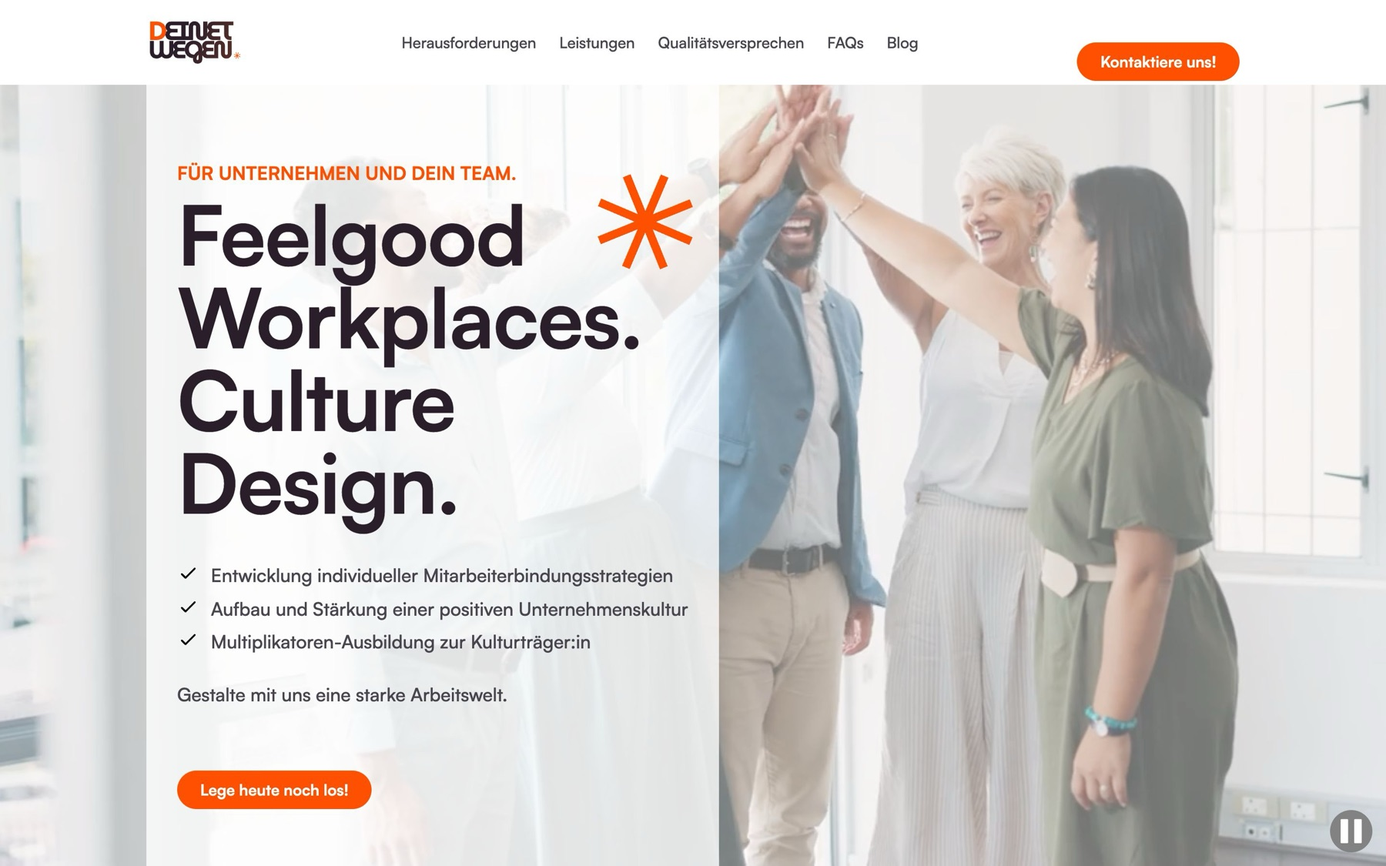
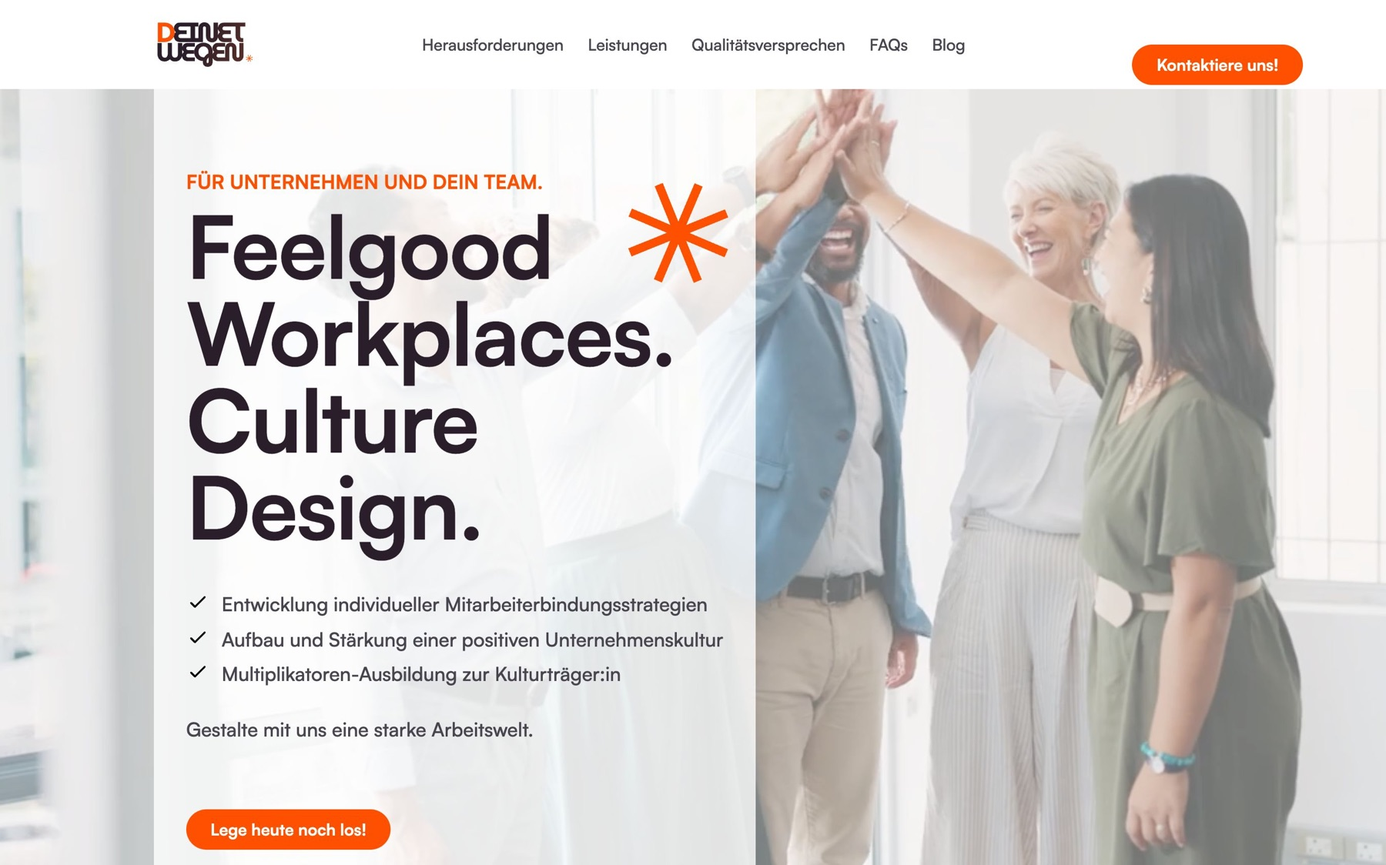
Deinetwegen: Einleitung unter der H1 raus, Steckbrief in der Schreibweise wie Bauer (2025 · 2 Monate), Kundenstimme neben den Ergebnissen statt allein am Ende, am Handy nur die Handy-Fassung der ganzen Seite, Pause-Taste der Kundenseite aus den Aufnahmen entfernt, gezeichneter Laptop raus (Bühne fla

diff --git a/website/referenzen/deinetwegen/index.html b/website/referenzen/deinetwegen/index.html
@@ -15,7 +15,7 @@
   <meta property="og:description" content="Branding, Onepager und Blog für eine frisch gegründete HR-Beratung.">
   <meta property="og:url" content="https://studio-aah.de/referenzen/deinetwegen/">
   <meta property="og:image" content="https://studio-aah.de/bilder/vorschaubild.jpg">
-  <link rel="stylesheet" href="../../css/stil.css?v=20261019u">
+  <link rel="stylesheet" href="../../css/stil.css?v=20261019x">
   <script type="application/ld+json">
 {
   "@context": "https://schema.org",
@@ -106,7 +106,7 @@
   </details>
 </header>
 <div class="mm-schleier" hidden></div>
-<script src="../../js/menue.js?v=20261019u" defer></script>
+<script src="../../js/menue.js?v=20261019x" defer></script>
 <!-- /KOPF -->
 
 <main id="inhalt" class="cs cs-nahtlos cs-deinetwegen" style="--pc-farbe: #1f100c;--pc-dunkel:#2A1E2B;--pc-akzent:#FF5000;--pc-zweit:#BEC9C6;--pc-hell:#EBEBF0;--pc-meta-dunkel:#BEC9C6;--pc-marke:#2A1E2B">
@@ -114,11 +114,11 @@
   <section class="seitenkopf cs-kopf">
     <p class="meta brotkrumen"><a href="../">Projekte</a> / <span aria-current="page">Deinetwegen HR</span></p>
     <h1 class="cs-titel">Deinetwegen HR</h1>
-    <p class="cs-einleitung">Ein erster Startpunkt für eine frisch gegründete HR-Beratung: ein Onepager mit Blog, der zeigt, wofür Deinetwegen HR steht und wen sie anspricht.</p>
-    <dl class="cs-fakten"><div><dt>Branche</dt><dd>HR-Beratung, gegründet 2024</dd></div><div><dt>Leistungen</dt><dd>Branding, Onepager mit Blog und Artikelseite, Webdesign und Entwicklung in Webflow</dd></div><div><dt>Zeitraum</dt><dd>2025 · Umsetzung in zwei Monaten</dd></div><div><dt>Website</dt><dd><a class="textlink" href="https://www.deinetwegen-hr.de" target="_blank" rel="noopener">deinetwegen-hr.de · Stand 10/2026 <span aria-hidden="true">↗</span></a></dd></div></dl>
+    
+    <dl class="cs-fakten"><div><dt>Branche</dt><dd>HR-Beratung – Mitarbeiterbindung &amp; Unternehmenskultur</dd></div><div><dt>Leistungen</dt><dd>Branding, Onepager mit Blog und Artikelseite, Web&shy;entwicklung in Webflow</dd></div><div><dt>Zeitraum</dt><dd>2025 · 2 Monate</dd></div><div><dt>Website</dt><dd><a class="textlink" href="https://www.deinetwegen-hr.de" target="_blank" rel="noopener">deinetwegen-hr.de · Stand 10/2026 <span aria-hidden="true">↗</span></a></dd></div></dl>
   </section>
 
-  <div class="nl-band nl-dunkel cs-hero bl-hero" style="--von:#2A1E2B;--bis:#5A2F28"><div class="bl-kopf"><img class="bl-logo" src="../../bilder/referenzen/deinetwegen/logo-dunkel.svg" alt="" width="160" height="79"><p class="meta">Branding · Onepager</p></div><div class="bl-laptop"><div class="bl-schirm"><img src="../../bilder/referenzen/deinetwegen/start.jpg?v=96133" alt="Startseite von Deinetwegen HR am Laptop: „Feelgood Workplaces. Culture Design.“" width="1800" height="1125" fetchpriority="high" decoding="async"></div><span class="bl-fuss" aria-hidden="true"></span></div></div>
+  <div class="nl-band nl-dunkel cs-hero bl-hero" style="--von:#2A1E2B;--bis:#5A2F28"><div class="bl-kopf"><img class="bl-logo" src="../../bilder/referenzen/deinetwegen/logo-dunkel.svg" alt="" width="160" height="79"><p class="meta">Branding · Onepager</p></div><div class="bl-flach"><img src="../../bilder/referenzen/deinetwegen/start.jpg?v=97621" alt="Startseite von Deinetwegen HR am Laptop: „Feelgood Workplaces. Culture Design.“" width="1800" height="1124" fetchpriority="high" decoding="async"></div></div>
 
 
   <section class="cs-bilder" aria-label="Projekt im Detail">
@@ -144,10 +144,10 @@
   <div id="d-gestaltung" class="cs-block cs-kapitel"><p class="meta">Brand Manual 2025</p><h2 class="gr-xxl lang-wort kp-titel">Gestaltung</h2></div>
 </div>
 <div class="nl-band" style="--von:#EBEBF0;--bis:#EBEBF0">
-  <section class="cs-block cs-cd" aria-labelledby="mk-titel"><div class="mk-kopf"><p class="meta">Corporate Design</p><h2 class="gr-h3" id="mk-titel">Logo, Farben, Schrift</h2><p class="weg-einleitung">Das Corporate Design habe ich optimiert und im Brand Manual festgehalten: die Wortmarke mit orangem D und Stern, das D als Bildmarke, Farben und Schrift.</p></div><div class="mk-logos"><figure class="mk-logo" style="--grund:#ffffff"><img src="../../bilder/referenzen/deinetwegen/logo-hell.svg" alt="Logo Deinetwegen auf hellem Grund" width="331" height="169" loading="lazy"></figure><figure class="mk-logo" style="--grund:#2A1E2B"><img src="../../bilder/referenzen/deinetwegen/logo-dunkel.svg" alt="Logo Deinetwegen auf dunklem Grund" width="324" height="160" loading="lazy"></figure><figure class="mk-logo" style="--grund:#ffffff"><img src="../../bilder/referenzen/deinetwegen/marke-orange.svg" alt="Bildmarke D mit Stern in Orange" width="361" height="361" loading="lazy"></figure><figure class="mk-logo" style="--grund:#2A1E2B"><img src="../../bilder/referenzen/deinetwegen/marke-tuerkis.svg" alt="Bildmarke D mit Stern in Türkis" width="361" height="361" loading="lazy"></figure></div><ul class="mk-farben"><li class="mk-farbe mk-hell" style="--f:#FF5000"><b>Signalfarbe</b><span>#FF5000</span><small>Knöpfe, Akzente</small></li><li class="mk-farbe" style="--f:#2A1E2B"><b>Schwarz</b><span>#2A1E2B</span><small>Logo, Überschriften</small></li><li class="mk-farbe mk-hell" style="--f:#BEC9C6"><b>Türkis</b><span>#BEC9C6</span><small>Logo, Flächen</small></li><li class="mk-farbe" style="--f:#5A2F28"><b>Verlauf</b><span>#5A2F28</span><small>Flächen, aus Schwarz</small></li><li class="mk-farbe mk-hell" style="--f:#EBEBF0"><b>Hellgrau</b><span>#EBEBF0</span><small>Flächen</small></li></ul><figure class="mk-schrift"><img src="../../bilder/referenzen/deinetwegen/schrift-satoshi.png?v=96187" alt="Schriftmuster Satoshi: Aa groß, Alphabet in Regular und Bold" width="1600" height="900" loading="lazy"><figcaption class="meta">Schrift: Satoshi · Indian Type Foundry</figcaption></figure></section>
+  <section class="cs-block cs-cd" aria-labelledby="mk-titel"><div class="mk-kopf"><p class="meta">Corporate Design</p><h2 class="gr-h3" id="mk-titel">Logo, Farben, Schrift</h2><p class="weg-einleitung">Die Wortmarke hat Franziska als Grundlage mitgebracht. Ich habe Ausrichtung und Farben angepasst und das Corporate Design im Brand Manual festgehalten: Wortmarke mit orangem D und Stern, das D als Bildmarke, Farben und Schrift.</p></div><div class="mk-logos"><figure class="mk-logo" style="--grund:#ffffff"><img src="../../bilder/referenzen/deinetwegen/logo-hell.svg" alt="Logo Deinetwegen auf hellem Grund" width="331" height="169" loading="lazy"></figure><figure class="mk-logo" style="--grund:#2A1E2B"><img src="../../bilder/referenzen/deinetwegen/logo-dunkel.svg" alt="Logo Deinetwegen auf dunklem Grund" width="324" height="160" loading="lazy"></figure><figure class="mk-logo" style="--grund:#ffffff"><img src="../../bilder/referenzen/deinetwegen/marke-orange.svg" alt="Bildmarke D mit Stern in Orange" width="361" height="361" loading="lazy"></figure><figure class="mk-logo" style="--grund:#2A1E2B"><img src="../../bilder/referenzen/deinetwegen/marke-tuerkis.svg" alt="Bildmarke D mit Stern in Türkis" width="361" height="361" loading="lazy"></figure></div><ul class="mk-farben"><li class="mk-farbe mk-hell" style="--f:#FF5000"><b>Signalfarbe</b><span>#FF5000</span><small>Knöpfe, Akzente</small></li><li class="mk-farbe" style="--f:#2A1E2B"><b>Schwarz</b><span>#2A1E2B</span><small>Logo, Überschriften</small></li><li class="mk-farbe mk-hell" style="--f:#BEC9C6"><b>Türkis</b><span>#BEC9C6</span><small>Logo, Flächen</small></li><li class="mk-farbe" style="--f:#5A2F28"><b>Verlauf</b><span>#5A2F28</span><small>Flächen, aus Schwarz</small></li><li class="mk-farbe mk-hell" style="--f:#EBEBF0"><b>Hellgrau</b><span>#EBEBF0</span><small>Flächen</small></li></ul><figure class="mk-schrift"><img src="../../bilder/referenzen/deinetwegen/schrift-satoshi.png?v=96187" alt="Schriftmuster Satoshi: Aa groß, Alphabet in Regular und Bold" width="1600" height="900" loading="lazy"><figcaption class="meta">Schrift: Satoshi · Indian Type Foundry</figcaption></figure></section>
 </div>
 <div class="nl-band" style="--von:#EBEBF0;--bis:#EBEBF0">
-  <section id="d-onepager" class="cs-block cs-lang" aria-labelledby="la-titel"><div class="la-kopf"><p class="meta">Website · Webflow</p><h2 class="la-titel" id="la-titel">Der Onepager</h2><p>Eine Seite, ein Weg: Herausforderungen, Motivation, Leistungen, Zitat der Gründerin, Fragen und Antworten, Blog – am Rechner und am Handy.</p></div><div class="la-paar" style="--rd:0.16763;--rh:0.03387"><figure class="la-karte la-desktop"><img src="../../bilder/referenzen/deinetwegen/lang-desktop.jpg?v=96934" alt="Ganze Startseite von Deinetwegen HR am Rechner, von oben bis unten" width="1920" height="11454" loading="lazy"><figcaption class="meta">Rechner</figcaption></figure><figure class="la-karte la-handy"><img src="../../bilder/referenzen/deinetwegen/lang-handy.jpg?v=97139" alt="Ganze Startseite von Deinetwegen HR am Handy, von oben bis unten" width="600" height="17713" loading="lazy"><figcaption class="meta">Handy</figcaption></figure></div></section>
+  <section id="d-onepager" class="cs-block cs-lang" aria-labelledby="la-titel"><div class="la-kopf"><p class="meta">Website · Webflow</p><h2 class="la-titel" id="la-titel">Der Onepager</h2><p>Eine Seite, ein Weg: Herausforderungen, Motivation, Leistungen, Zitat der Gründerin, Fragen und Antworten, Blog – am Rechner und am Handy.</p></div><div class="la-paar" style="--rd:0.16763;--rh:0.03387"><figure class="la-karte la-desktop"><img src="../../bilder/referenzen/deinetwegen/lang-desktop.jpg?v=97691" alt="Ganze Startseite von Deinetwegen HR am Rechner, von oben bis unten" width="1920" height="11454" loading="lazy"><figcaption class="meta">Rechner</figcaption></figure><figure class="la-karte la-handy"><img src="../../bilder/referenzen/deinetwegen/lang-handy.jpg?v=97691" alt="Ganze Startseite von Deinetwegen HR am Handy, von oben bis unten" width="600" height="17713" loading="lazy"><figcaption class="meta">Handy</figcaption></figure></div></section>
 </div>
 <div class="nl-band nl-dunkel" style="--von:#2A1E2B;--bis:#5A2F28">
   <section class="cs-block cs-seiten-pillen" aria-labelledby="sp-titel"><div class="sp-kopf"><p class="meta">Inhalte</p><h2 class="la-titel" id="sp-titel">Blog und Beiträge</h2><p>Zum Onepager gehören ein Blog und eine Artikelseite für Fachbeiträge zu Unternehmenskultur und psychologischer Sicherheit.</p></div><div class="sp-reihe"><figure class="sp-seite sp-desktop"><figcaption><span class="sp-pille">Blog-Übersicht</span><svg class="sp-pfeil" viewBox="0 0 60 34" aria-hidden="true"><path d="M2 6 C 18 2, 34 6, 44 24"/><path d="M34 22 L 45 26 L 49 14"/></svg></figcaption><div class="sp-fenster"><img src="../../bilder/referenzen/deinetwegen/blog.jpg?v=96934" alt="Blog-Übersicht von Deinetwegen HR" width="1400" height="1480" loading="lazy"></div></figure><figure class="sp-seite sp-desktop"><figcaption><span class="sp-pille">Beitrag</span><svg class="sp-pfeil" viewBox="0 0 60 34" aria-hidden="true"><path d="M2 6 C 18 2, 34 6, 44 24"/><path d="M34 22 L 45 26 L 49 14"/></svg></figcaption><div class="sp-fenster"><img src="../../bilder/referenzen/deinetwegen/beitrag.jpg?v=96134" alt="Beitrag „Psychologische Sicherheit“ am Rechner" width="1400" height="1700" loading="lazy"></div></figure><figure class="sp-seite sp-handy"><figcaption><span class="sp-pille">Am Handy</span><svg class="sp-pfeil" viewBox="0 0 60 34" aria-hidden="true"><path d="M2 6 C 18 2, 34 6, 44 24"/><path d="M34 22 L 45 26 L 49 14"/></svg></figcaption><div class="sp-fenster"><img src="../../bilder/referenzen/deinetwegen/beitrag-handy.jpg?v=96134" alt="Beitrag „Psychologische Sicherheit“ am Handy" width="600" height="1600" loading="lazy"></div></figure></div></section>
@@ -156,11 +156,7 @@
   <div id="d-ergebnis" class="cs-block cs-kapitel"><p class="meta">Ziele und Wirkung</p><h2 class="gr-xxl lang-wort kp-titel">Ergebnis</h2></div>
 </div>
 <div class="nl-band" style="--von:#ffffff;--bis:#ffffff">
-  <section class="cs-block cs-ergebnis" aria-label="Ergebnis"><ul class="eg-karten eg-anzahl-3"><li><h3>Ausrichtung und Schwerpunkte zeigen</h3><p>Seit 2025 zeigt der Onepager auf einer Seite, wofür Deinetwegen HR steht.</p></li><li><h3>Die Zielgruppe ansprechen</h3><p>Über den Onepager kamen die ersten Aufträge.</p></li><li><h3>Ein erster Startpunkt</h3><p>Von allen Seiten bekam Franziska Lob für ihren Auftritt.</p></li></ul><p class="eg-credits">Konzeption, Optimierung des Corporate Designs, Webdesign und Entwicklung in Webflow: Anna Härtelt</p><div class="eg-abschluss"><p class="eg-frage">Sie gründen gerade und brauchen einen ersten Auftritt?</p><a class="button" href="../../kontakt/">Projekt anfragen <span aria-hidden="true">→</span></a></div></section>
-</div>
-  </section>
-
-  <section class="cs-stimme" aria-label="Kundenstimme">
+  <section class="cs-block cs-ergebnis" aria-label="Ergebnis"><div class="eg-mit-stimme"><ul class="eg-karten eg-anzahl-3"><li><h3>Ausrichtung und Schwerpunkte zeigen</h3><p>Seit 2025 zeigt der Onepager auf einer Seite, wofür Deinetwegen HR steht.</p></li><li><h3>Die Zielgruppe ansprechen</h3><p>Über den Onepager kamen die ersten Aufträge.</p></li><li><h3>Ein erster Startpunkt</h3><p>Von allen Seiten bekam Franziska Lob für ihren Auftritt.</p></li></ul><div class="eg-stimme">  <div class="cs-stimme-innen">
     <div class="stimmen">
       <article class="stimme hg-hellgrau">
         <img class="stimme-icon" src="../../bilder/icon-quote.png?v=61630" alt="" width="40" height="25" loading="lazy">
@@ -178,7 +174,11 @@
       </article>
     </div>
     <p class="stimmen-quelle"><a class="textlink" href="https://www.linkedin.com/in/anna-h%C3%A4rtelt-8513b8213/details/recommendations/" target="_blank" rel="noopener">Empfehlung auf LinkedIn <span aria-hidden="true">↗</span></a></p>
+  </div></div></div><p class="eg-credits">Konzeption, Optimierung des Corporate Designs, Webdesign und Entwicklung in Webflow: Anna Härtelt</p><div class="eg-abschluss"><p class="eg-frage">Sie gründen gerade und brauchen einen ersten Auftritt?</p><a class="button" href="../../kontakt/">Projekt anfragen <span aria-hidden="true">→</span></a></div></section>
+</div>
   </section>
+
+
 
   <nav class="cs-weiter" aria-label="Weitere Projekte">
     <a class="pk-bild" href="../jana-voigtmann/" tabindex="-1" aria-hidden="true"><span class="pc pc-dunkel" style="--pc-farbe: #161616"><p class="pc-zeile" aria-hidden="true"><span>Jana Voigtmann</span><span>Branding &amp; Website</span><span>2022</span></p><span class="pc-desktop"><img src="../../bilder/referenzen/jana-website.jpg?v=735383" alt="" loading="lazy"></span></span></a>
@@ -259,6 +259,6 @@
   </footer>
   <!-- /FUSS -->
 
-  <script src="../../js/zaehlen.js?v=20261019u" defer></script>
+  <script src="../../js/zaehlen.js?v=20261019x" defer></script>
 </body>
 </html>

diff --git a/website/css/stil.css b/website/css/stil.css
@@ -3505,11 +3505,14 @@ section[hidden] { display: none !important; }
 .bl-kopf { display: flex; justify-content: space-between; align-items: center; gap: 24px; max-width: 1200px; margin: 0 auto clamp(32px, 5vw, 72px); position: relative; z-index: 2; }
 .bl-logo { width: clamp(96px, 11vw, 160px); height: auto; }
 .bl-kopf .meta { margin: 0; text-align: right; }
-.bl-laptop { position: relative; z-index: 2; width: min(960px, 100%); margin: 0 auto; }
-.bl-schirm { background: #111; border-radius: 18px 18px 0 0; padding: clamp(8px, 1.4vw, 18px) clamp(8px, 1.4vw, 18px) 0; box-shadow: 0 0 0 2px #3a3a3c inset; }
-.bl-schirm img { display: block; width: 100%; height: auto; border-radius: 4px 4px 0 0; }
-.bl-fuss { display: block; height: clamp(10px, 1.6vw, 20px); margin: 0 -7%; border-radius: 0 0 14px 14px; background: linear-gradient(180deg, #d9dadc, #a9abae); box-shadow: 0 18px 40px rgba(0, 0, 0, .35); }
-.bl-hero::after { content: ""; position: absolute; left: 0; right: 0; bottom: 0; height: 22%; background: var(--pc-hell); z-index: 1; }
+/* ohne echtes Mockup: flaches Bildschirmbild; mit Mockup: das Foto (Gerät nach Zielgruppe, Anna 15.10.2026) */
+.bl-flach, .bl-mockup { position: relative; z-index: 2; width: min(1000px, 100%); margin: 0 auto; }
+.bl-flach img { display: block; width: 100%; height: auto; border-radius: clamp(8px, 1vw, 14px); box-shadow: 0 30px 70px rgba(0, 0, 0, .35); }
+.bl-mockup { width: min(1200px, 100%); }
+.bl-mockup img { display: block; width: 100%; height: auto; }
+.cs-nahtlos .nl-band.bl-hero { padding-bottom: clamp(32px, 4vw, 64px); }
+.bl-hero::after { content: ""; position: absolute; left: 0; right: 0; bottom: 0; height: clamp(90px, 14vw, 220px); background: var(--pc-hell); z-index: 1; }
+
 
 /* Überblick: große Aussage + Leistungsspalte */
 .cs-ueberblick { display: grid; grid-template-columns: minmax(0, 2.2fr) minmax(0, 1fr); gap: clamp(32px, 6vw, 96px); align-items: end; max-width: 1200px; margin: 0 auto; }
@@ -3559,10 +3562,11 @@ section[hidden] { display: none !important; }
 .la-handy { flex: calc(var(--rh) * 1000) 1 0; min-width: 0; }
 .la-karte img { display: block; width: 100%; height: auto; border-radius: clamp(6px, .8vw, 12px); }
 .la-karte figcaption { margin-top: 10px; text-align: center; }
+/* am Handy nur die Handy-Fassung (Anna 15.10.2026: sonst „zweimal dasselbe“) */
 @media (max-width: 700px) {
-  .la-paar { flex-direction: column; align-items: center; }
-  .la-desktop, .la-handy { flex: none; width: 100%; }
-  .la-handy { width: min(300px, 78%); }
+  .la-paar { justify-content: center; }
+  .la-desktop { display: none; }
+  .la-handy { flex: none; width: min(320px, 86%); }
 }
 
 /* weitere Seiten mit Pillen und Pfeil */
@@ -3593,3 +3597,11 @@ section[hidden] { display: none !important; }
 .cs-nahtlos .gr-h3, .cs-nahtlos .zeitleiste h3 { line-height: 1.2; }
 .cs-ergebnis .eg-karten.eg-anzahl-3 { grid-template-columns: repeat(3, minmax(0, 1fr)); }
 @media (max-width: 900px) { .cs-ergebnis .eg-karten.eg-anzahl-3 { grid-template-columns: 1fr; } }
+
+/* Ergebnis mit Kundenstimme daneben */
+.eg-mit-stimme { display: grid; grid-template-columns: minmax(0, 1.1fr) minmax(0, 1fr); gap: clamp(28px, 4vw, 64px); align-items: start; }
+.cs-ergebnis .eg-mit-stimme .eg-karten { grid-template-columns: 1fr; gap: 28px; }
+.eg-stimme .stimmen { display: block; columns: auto; padding: 0; }
+.eg-stimme .stimme { margin: 0; break-inside: avoid; }
+.eg-stimme .stimmen-quelle { padding: 16px 0 0; margin: 0; }
+@media (max-width: 900px) { .eg-mit-stimme { grid-template-columns: 1fr; } }

diff --git a/website/index.html b/website/index.html
@@ -15,7 +15,7 @@
   <meta property="og:description" content="Design Studio aus Leipzig: Anna Härtelt begleitet Unternehmen und Selbstständige bei Branding, Webdesign, UX/UI-Design und der Einführung von KI.">
   <meta property="og:url" content="https://studio-aah.de/">
   <meta property="og:image" content="https://studio-aah.de/bilder/vorschaubild.jpg">
-  <link rel="stylesheet" href="css/stil.css?v=20261019u">
+  <link rel="stylesheet" href="css/stil.css?v=20261019x">
 </head>
 <body>
 <a class="sprunglink" href="#inhalt">Zum Inhalt springen</a>
@@ -92,7 +92,7 @@
   </details>
 </header>
 <div class="mm-schleier" hidden></div>
-<script src="js/menue.js?v=20261019u" defer></script>
+<script src="js/menue.js?v=20261019x" defer></script>
 <!-- /KOPF -->
 
 <main id="inhalt" class="mit-faden">
@@ -131,8 +131,8 @@
     </dl>
 <!-- KENNZAHLEN:ENDE -->
   </div>
-  <script src="js/hero.js?v=20261019u" defer></script>
-    <script src="js/faden.js?v=20261019u" defer></script>
+  <script src="js/hero.js?v=20261019x" defer></script>
+    <script src="js/faden.js?v=20261019x" defer></script>
 </section>
 
   <!-- Nach dem Hero (Anna 13.10.2026): zwei Spalten, links Text und Vorstellung, rechts kleine Ökosystem-Grafik mit Link
@@ -490,6 +490,6 @@
   </footer>
   <!-- /FUSS -->
 
-  <script src="js/zaehlen.js?v=20261019u" defer></script>
+  <script src="js/zaehlen.js?v=20261019x" defer></script>
 </body>
 </html>

diff --git a/website/kontakt/index.html b/website/kontakt/index.html
@@ -15,7 +15,7 @@
   <meta property="og:description" content="Projekt anfragen bei STUDIO AAH!: per E-Mail an info@studio-aah.de oder telefonisch. Das Erstgespräch ist kostenlos und unverbindlich.">
   <meta property="og:url" content="https://studio-aah.de/kontakt/">
   <meta property="og:image" content="https://studio-aah.de/bilder/vorschaubild.jpg">
-  <link rel="stylesheet" href="../css/stil.css?v=20261019u">
+  <link rel="stylesheet" href="../css/stil.css?v=20261019x">
 </head>
 <body>
 <a class="sprunglink" href="#inhalt">Zum Inhalt springen</a>
@@ -92,7 +92,7 @@
   </details>
 </header>
 <div class="mm-schleier" hidden></div>
-<script src="../js/menue.js?v=20261019u" defer></script>
+<script src="../js/menue.js?v=20261019x" defer></script>
 <!-- /KOPF -->
 
 <main id="inhalt">
@@ -119,7 +119,7 @@
   <span class="kopiert" role="status" aria-live="polite"></span>
 </p>
 <p class="hinweis-klein">Öffnet sich kein Mailprogramm? Adresse kopieren und aus Ihrem gewohnten Postfach schreiben.</p>
-<script src="../js/kontakt.js?v=20261019u" defer></script>
+<script src="../js/kontakt.js?v=20261019x" defer></script>
     </div>
   </section>
 

diff --git a/website/preise/index.html b/website/preise/index.html
@@ -15,7 +15,7 @@
   <meta property="og:description" content="Pakete und Einstiegspreise für Branding, Design, Websites, UI/UX, KI und Marketing. Den genauen Festpreis gibt es nach einem kostenlosen Erstgespräch.">
   <meta property="og:url" content="https://studio-aah.de/preise/">
   <meta property="og:image" content="https://studio-aah.de/bilder/vorschaubild.jpg">
-  <link rel="stylesheet" href="../css/stil.css?v=20261019u">
+  <link rel="stylesheet" href="../css/stil.css?v=20261019x">
 </head>
 <body>
 <a class="sprunglink" href="#inhalt">Zum Inhalt springen</a>
@@ -92,7 +92,7 @@
   </details>
 </header>
 <div class="mm-schleier" hidden></div>
-<script src="../js/menue.js?v=20261019u" defer></script>
+<script src="../js/menue.js?v=20261019x" defer></script>
 <!-- /KOPF -->
 
 <main id="inhalt" class="preisseite">
@@ -255,7 +255,7 @@
   </footer>
   <!-- /FUSS -->
 
-<script src="../js/pakete-daten.js?v=20261019u" defer></script>
-<script src="../js/rechner.js?v=20261019u" defer></script>
+<script src="../js/pakete-daten.js?v=20261019x" defer></script>
+<script src="../js/rechner.js?v=20261019x" defer></script>
 </body>
 </html>

diff --git a/website/service/marketing-vertrieb/index.html b/website/service/marketing-vertrieb/index.html
@@ -15,7 +15,7 @@
   <meta property="og:description" content="Marketing &amp; Vertrieb bei STUDIO AAH! in Leipzig: LinkedIn ab 500 €, Post-Vorlagen ab 400 €, Fachartikel ab 300 €, Webinar ab 850 € (netto). Einzeln buchbar.">
   <meta property="og:url" content="https://studio-aah.de/service/marketing-vertrieb/">
   <meta property="og:image" content="https://studio-aah.de/bilder/vorschaubild.jpg">
-  <link rel="stylesheet" href="../../css/stil.css?v=20261019u">
+  <link rel="stylesheet" href="../../css/stil.css?v=20261019x">
   <script type="application/ld+json">
 {
   "@context": "https://schema.org",
@@ -296,7 +296,7 @@
   </details>
 </header>
 <div class="mm-schleier" hidden></div>
-<script src="../../js/menue.js?v=20261019u" defer></script>
+<script src="../../js/menue.js?v=20261019x" defer></script>
 <!-- /KOPF -->
 
 <main id="inhalt">
@@ -621,6 +621,6 @@
   </footer>
   <!-- /FUSS -->
 
-  <script src="../../js/zaehlen.js?v=20261019u" defer></script>
+  <script src="../../js/zaehlen.js?v=20261019x" defer></script>
 </body>
 </html>

diff --git a/website/service/ki-digitalisierung/index.html b/website/service/ki-digitalisierung/index.html
@@ -15,7 +15,7 @@
   <meta property="og:description" content="KI-Beratung bei STUDIO AAH! in Leipzig für KMU und Solo-Selbstständige: KI-Check ab 900 € netto, KI-Einführung ab 2.000 € netto. Festpreis nach Erstgespräch.">
   <meta property="og:url" content="https://studio-aah.de/service/ki-digitalisierung/">
   <meta property="og:image" content="https://studio-aah.de/bilder/vorschaubild.jpg">
-  <link rel="stylesheet" href="../../css/stil.css?v=20261019u">
+  <link rel="stylesheet" href="../../css/stil.css?v=20261019x">
   <script type="application/ld+json">
 {
   "@context": "https://schema.org",
@@ -272,7 +272,7 @@
   </details>
 </header>
 <div class="mm-schleier" hidden></div>
-<script src="../../js/menue.js?v=20261019u" defer></script>
+<script src="../../js/menue.js?v=20261019x" defer></script>
 <!-- /KOPF -->
 
 <main id="inhalt">
@@ -493,6 +493,6 @@
   </footer>
   <!-- /FUSS -->
 
-  <script src="../../js/zaehlen.js?v=20261019u" defer></script>
+  <script src="../../js/zaehlen.js?v=20261019x" defer></script>
 </body>
 </html>

diff --git a/website/service/markenbildung/index.html b/website/service/markenbildung/index.html
@@ -15,7 +15,7 @@
   <meta property="og:description" content="Markenbildung bei STUDIO AAH! in Leipzig: Basic ab 850 €, Medium mit Logo ab 2.500 €, Premium ab 4.500 € (netto). Festpreis nach kostenlosem Erstgespräch.">
   <meta property="og:url" content="https://studio-aah.de/service/markenbildung/">
   <meta property="og:image" content="https://studio-aah.de/bilder/vorschaubild.jpg">
-  <link rel="stylesheet" href="../../css/stil.css?v=20261019u">
+  <link rel="stylesheet" href="../../css/stil.css?v=20261019x">
   <script type="application/ld+json">
 {
   "@context": "https://schema.org",
@@ -336,7 +336,7 @@
   </details>
 </header>
 <div class="mm-schleier" hidden></div>
-<script src="../../js/menue.js?v=20261019u" defer></script>
+<script src="../../js/menue.js?v=20261019x" defer></script>
 <!-- /KOPF -->
 
 <main id="inhalt">
@@ -712,6 +712,6 @@
   </footer>
   <!-- /FUSS -->
 
-  <script src="../../js/zaehlen.js?v=20261019u" defer></script>
+  <script src="../../js/zaehlen.js?v=20261019x" defer></script>
 </body>
 </html>

diff --git a/website/service/ui-ux/index.html b/website/service/ui-ux/index.html
@@ -15,7 +15,7 @@
   <meta property="og:description" content="UI/UX Design bei STUDIO AAH! in Leipzig: Expert Review ab 1.200 €, Audit Pro ab 2.900 €, Redesign ab 4.500 € (netto). Festpreis nach kostenlosem Erstgespräch.">
   <meta property="og:url" content="https://studio-aah.de/service/ui-ux/">
   <meta property="og:image" content="https://studio-aah.de/bilder/vorschaubild.jpg">
-  <link rel="stylesheet" href="../../css/stil.css?v=20261019u">
+  <link rel="stylesheet" href="../../css/stil.css?v=20261019x">
   <script type="application/ld+json">
 {
   "@context": "https://schema.org",
@@ -312,7 +312,7 @@
   </details>
 </header>
 <div class="mm-schleier" hidden></div>
-<script src="../../js/menue.js?v=20261019u" defer></script>
+<script src="../../js/menue.js?v=20261019x" defer></script>
 <!-- /KOPF -->
 
 <main id="inhalt">
@@ -671,6 +671,6 @@
   </footer>
   <!-- /FUSS -->
 
-  <script src="../../js/zaehlen.js?v=20261019u" defer></script>
+  <script src="../../js/zaehlen.js?v=20261019x" defer></script>
 </body>
 </html>

diff --git a/website/service/retainer/index.html b/website/service/retainer/index.html
@@ -15,7 +15,7 @@
   <meta property="og:description" content="Retainer bei STUDIO AAH! in Leipzig: betreute Weiterentwicklung Ihrer Website mit neuen Texten, Bildern, Unterseiten und Abschnitten. Ab 65 € netto pro Stunde.">
   <meta property="og:url" content="https://studio-aah.de/service/retainer/">
   <meta property="og:image" content="https://studio-aah.de/bilder/vorschaubild.jpg">
-  <link rel="stylesheet" href="../../css/stil.css?v=20261019u">
+  <link rel="stylesheet" href="../../css/stil.css?v=20261019x">
   <script type="application/ld+json">
 {
   "@context": "https://schema.org",
@@ -220,7 +220,7 @@
   </details>
 </header>
 <div class="mm-schleier" hidden></div>
-<script src="../../js/menue.js?v=20261019u" defer></script>
+<script src="../../js/menue.js?v=20261019x" defer></script>
 <!-- /KOPF -->
 
 <main id="inhalt">
@@ -530,6 +530,6 @@
   </footer>
   <!-- /FUSS -->
 
-  <script src="../../js/zaehlen.js?v=20261019u" defer></script>
+  <script src="../../js/zaehlen.js?v=20261019x" defer></script>
 </body>
 </html>

diff --git a/website/service/illustration-infografik/index.html b/website/service/illustration-infografik/index.html
@@ -15,7 +15,7 @@
   <meta property="og:description" content="Illustrationen, Icons und Infografiken von STUDIO AAH! in Leipzig, die komplexe Inhalte auf einen Blick verständlich machen. Preis auf Anfrage.">
   <meta property="og:url" content="https://studio-aah.de/service/illustration-infografik/">
   <meta property="og:image" content="https://studio-aah.de/bilder/vorschaubild.jpg">
-  <link rel="stylesheet" href="../../css/stil.css?v=20261019u">
+  <link rel="stylesheet" href="../../css/stil.css?v=20261019x">
   <script type="application/ld+json">
 {
   "@context": "https://schema.org",
@@ -207,7 +207,7 @@
   </details>
 </header>
 <div class="mm-schleier" hidden></div>
-<script src="../../js/menue.js?v=20261019u" defer></script>
+<script src="../../js/menue.js?v=20261019x" defer></script>
 <!-- /KOPF -->
 
 <main id="inhalt">
@@ -404,6 +404,6 @@
   </footer>
   <!-- /FUSS -->
 
-  <script src="../../js/zaehlen.js?v=20261019u" defer></script>
+  <script src="../../js/zaehlen.js?v=20261019x" defer></script>
 </body>
 </html>

diff --git a/website/referenzen/bauer/index.html b/website/referenzen/bauer/index.html
@@ -15,7 +15,7 @@
   <meta property="og:description" content="Strategie, Rebranding, neue Website und Unternehmenspräsentation für ein Bauunternehmen im Ingenieurbau.">
   <meta property="og:url" content="https://studio-aah.de/referenzen/bauer/">
   <meta property="og:image" content="https://studio-aah.de/bilder/vorschaubild.jpg">
-  <link rel="stylesheet" href="../../css/stil.css?v=20261019u">
+  <link rel="stylesheet" href="../../css/stil.css?v=20261019x">
   <script type="application/ld+json">
 {
   "@context": "https://schema.org",
@@ -106,7 +106,7 @@
   </details>
 </header>
 <div class="mm-schleier" hidden></div>
-<script src="../../js/menue.js?v=20261019u" defer></script>
+<script src="../../js/menue.js?v=20261019x" defer></script>
 <!-- /KOPF -->
 
 <main id="inhalt" class="cs cs-nahtlos" style="--pc-farbe: #003466">
@@ -286,6 +286,6 @@
   </footer>
   <!-- /FUSS -->
 
-  <script src="../../js/zaehlen.js?v=20261019u" defer></script>
+  <script src="../../js/zaehlen.js?v=20261019x" defer></script>
 </body>
 </html>
